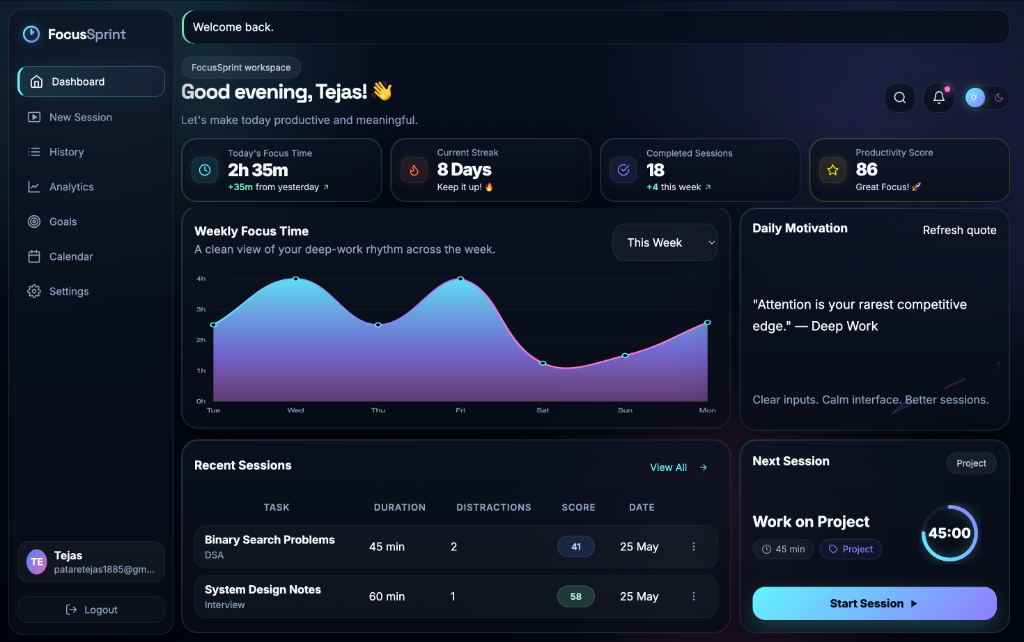
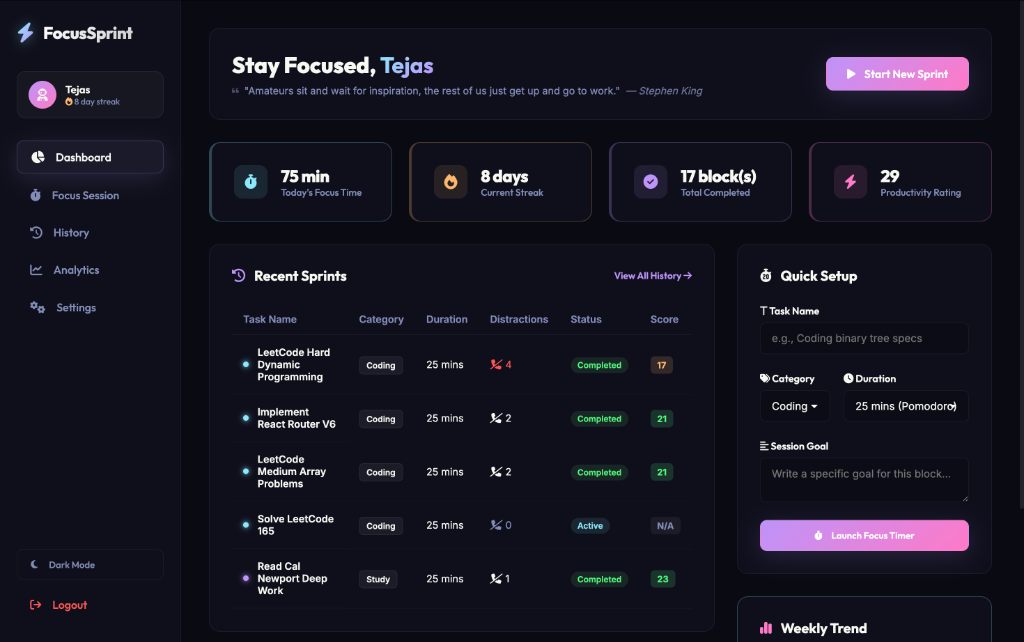
chore: replace dummy screenshots with actual FocusSprint SDD app screenshots

diff --git a/README.md b/README.md
@@ -36,9 +36,9 @@ Path: `static/images/dashboard_page.png`
 Path: `static/images/analytics_page.png`
 ![Analytics Page](static/images/analytics_page.png)
 
-### Register Page
-Path: `static/images/register_page.png`
-![Register Page](static/images/register_page.png)
+### Study History Logs
+Path: `static/images/history_page.png`
+![History Page](static/images/history_page.png)
 
 ---
 
